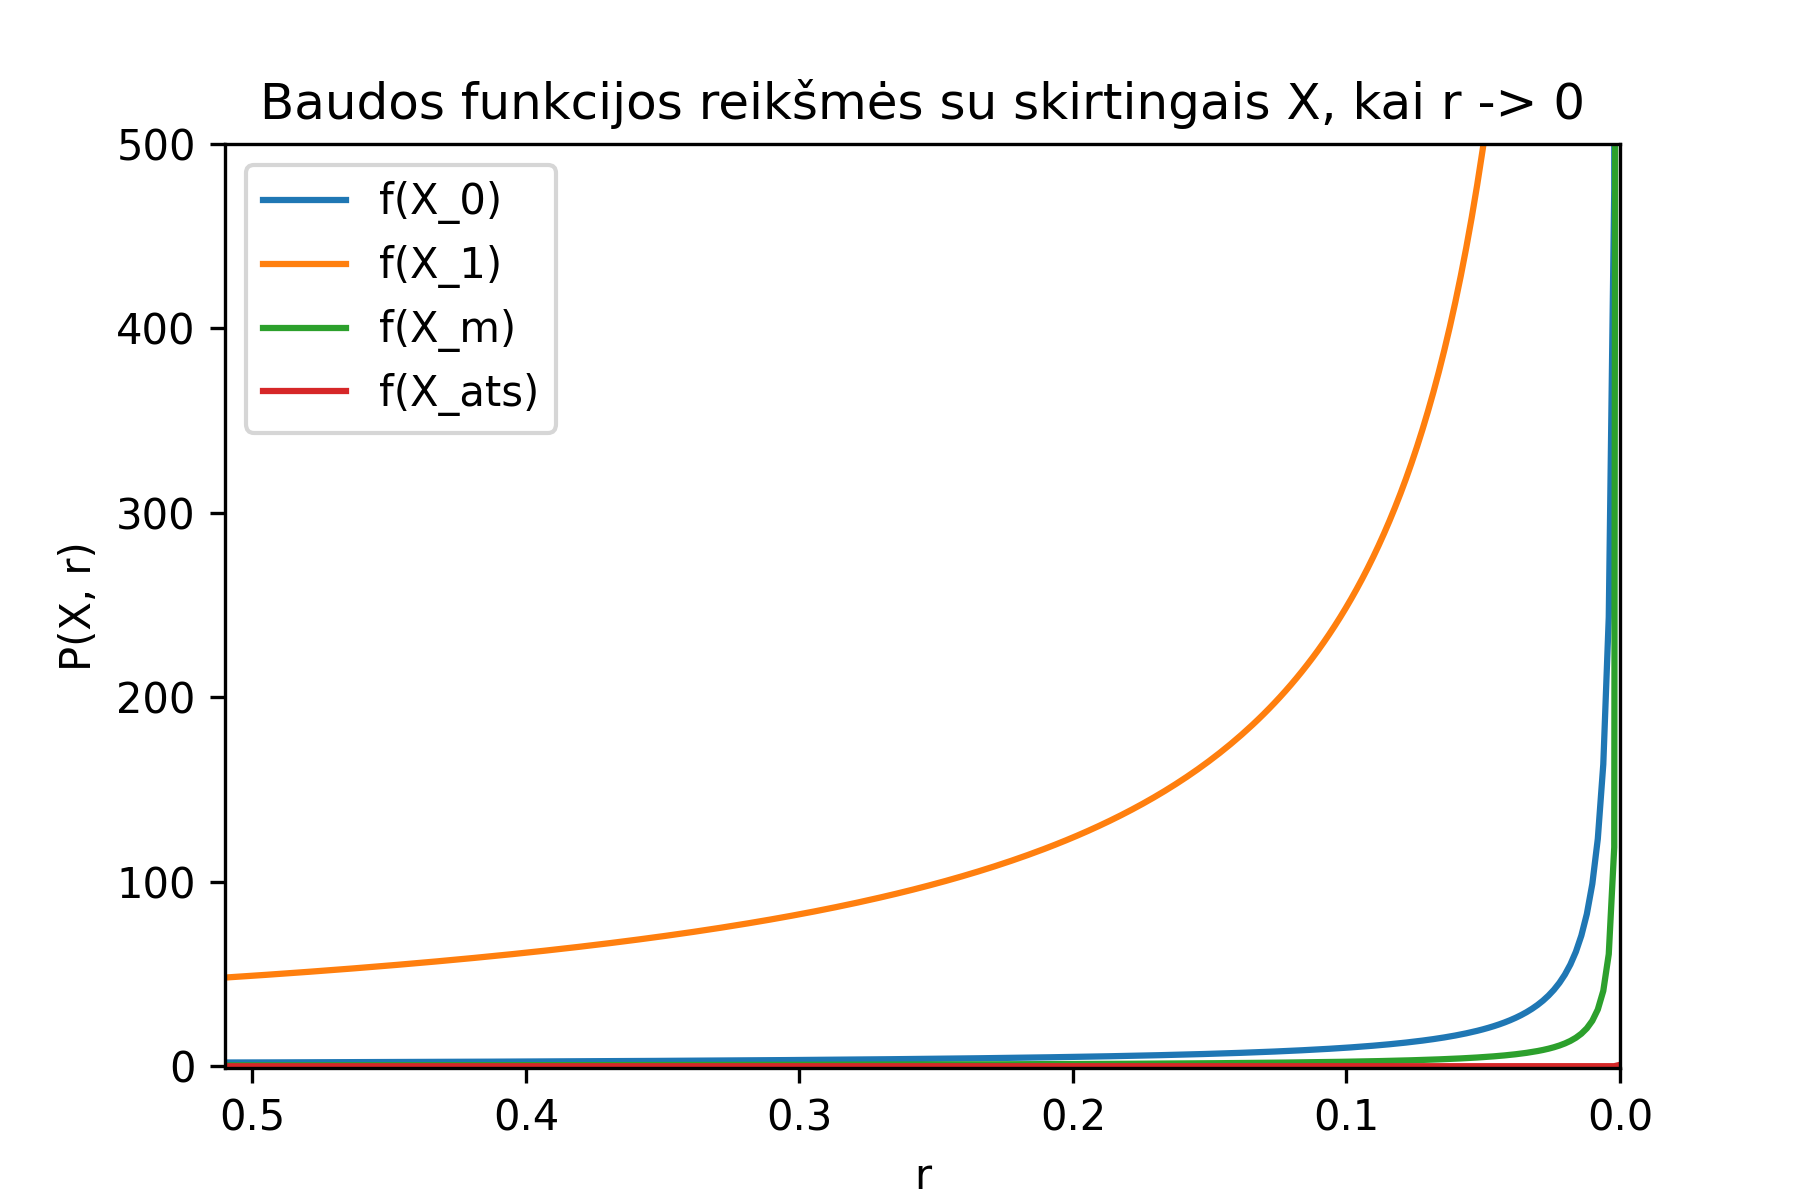
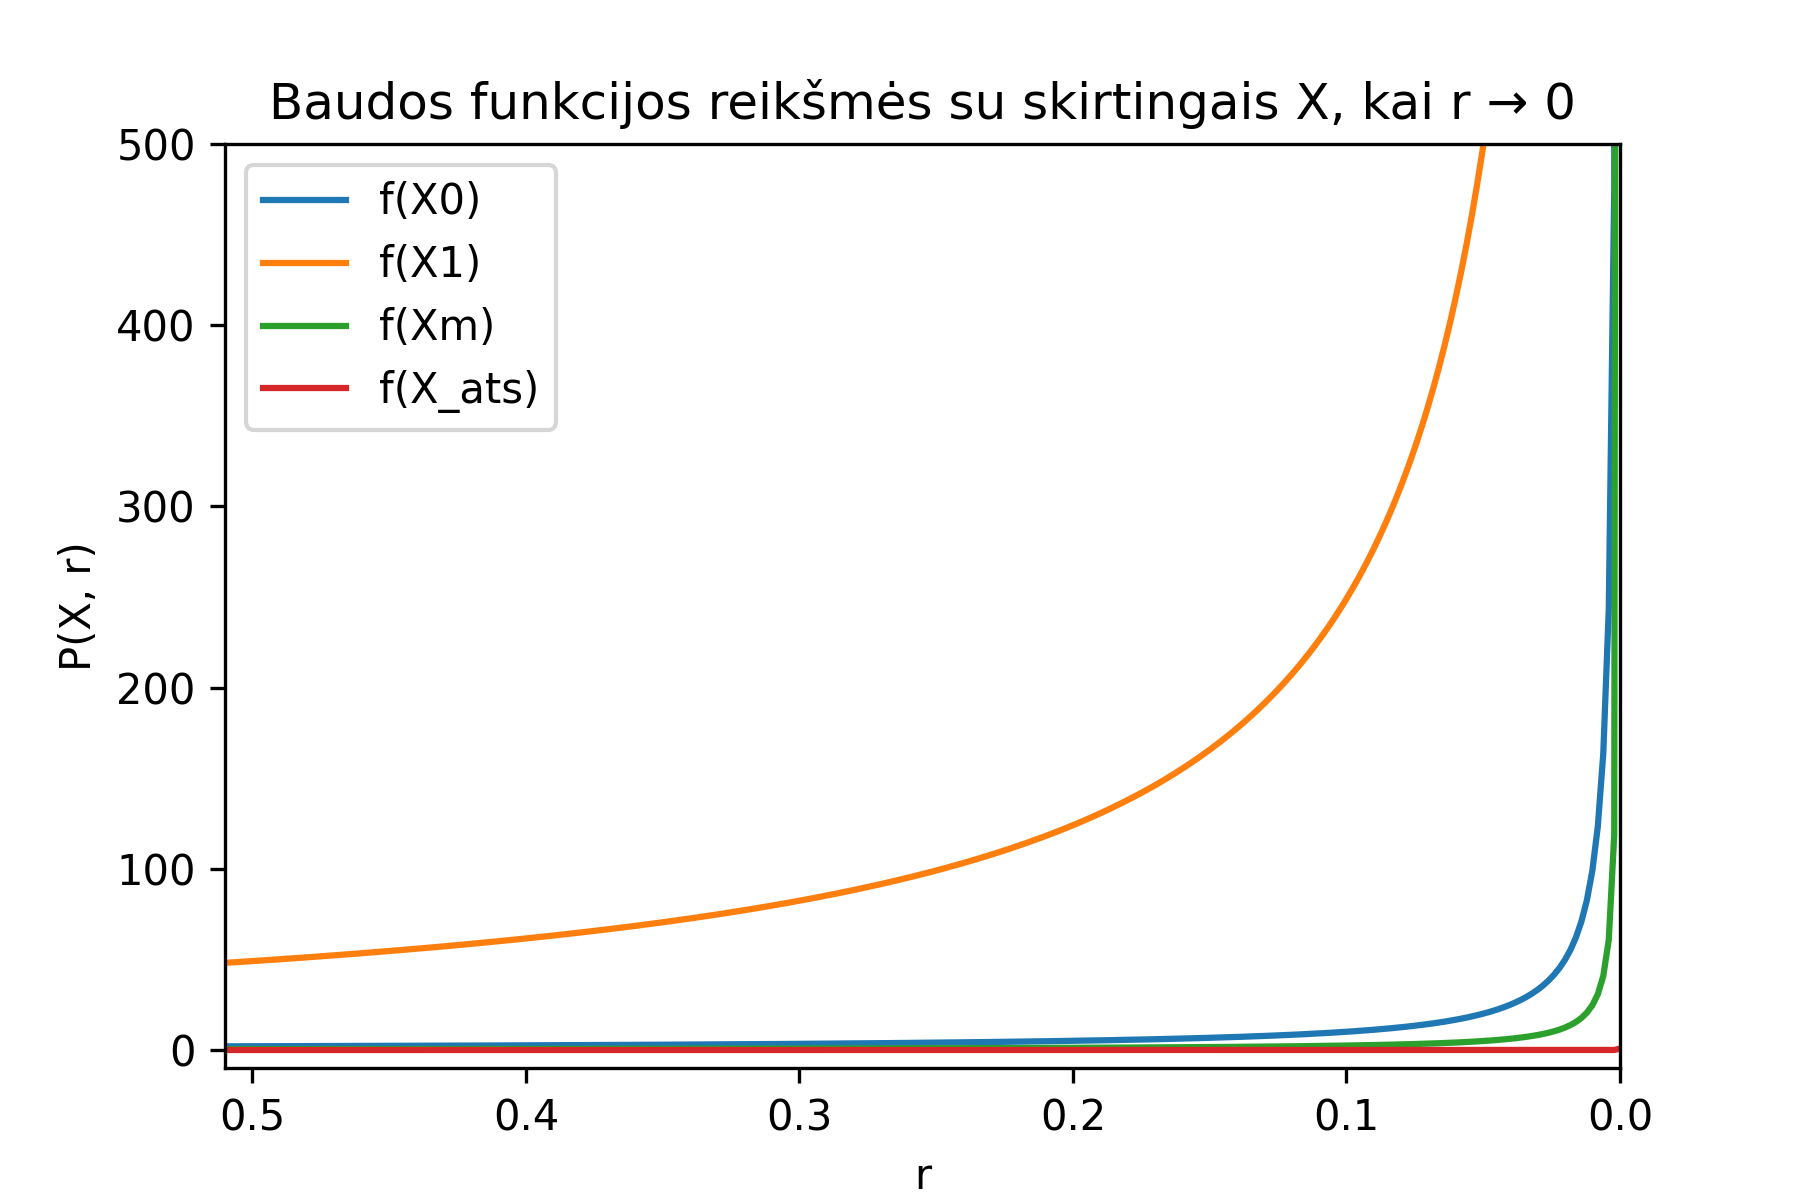
Small style changes

diff --git a/Project_3/main.py b/Project_3/main.py
@@ -155,10 +155,11 @@ def main():
             \n - X sprendinys = {X_opt} \
             \n - Minimumo įvertis = {-f(X_opt):.8f} \
             \n - Atlikta žingsnių = {cycles} \
-            \n - Funkcijų skaičiavimų skaičius = {evals}\n')
+            \n - Funkcijų skaičiavimų skaičius = {evals} \
+            \n----------------------------------------------------')
 
-   # X_values_and_names.append((X_ats, 'X_ats'))
-   # penalty_mult_impact(X_values_and_names)
+   X_values_and_names.append((X_ats, 'X_ats'))
+   penalty_mult_impact(X_values_and_names)
 
 if __name__ == "__main__":
    main()